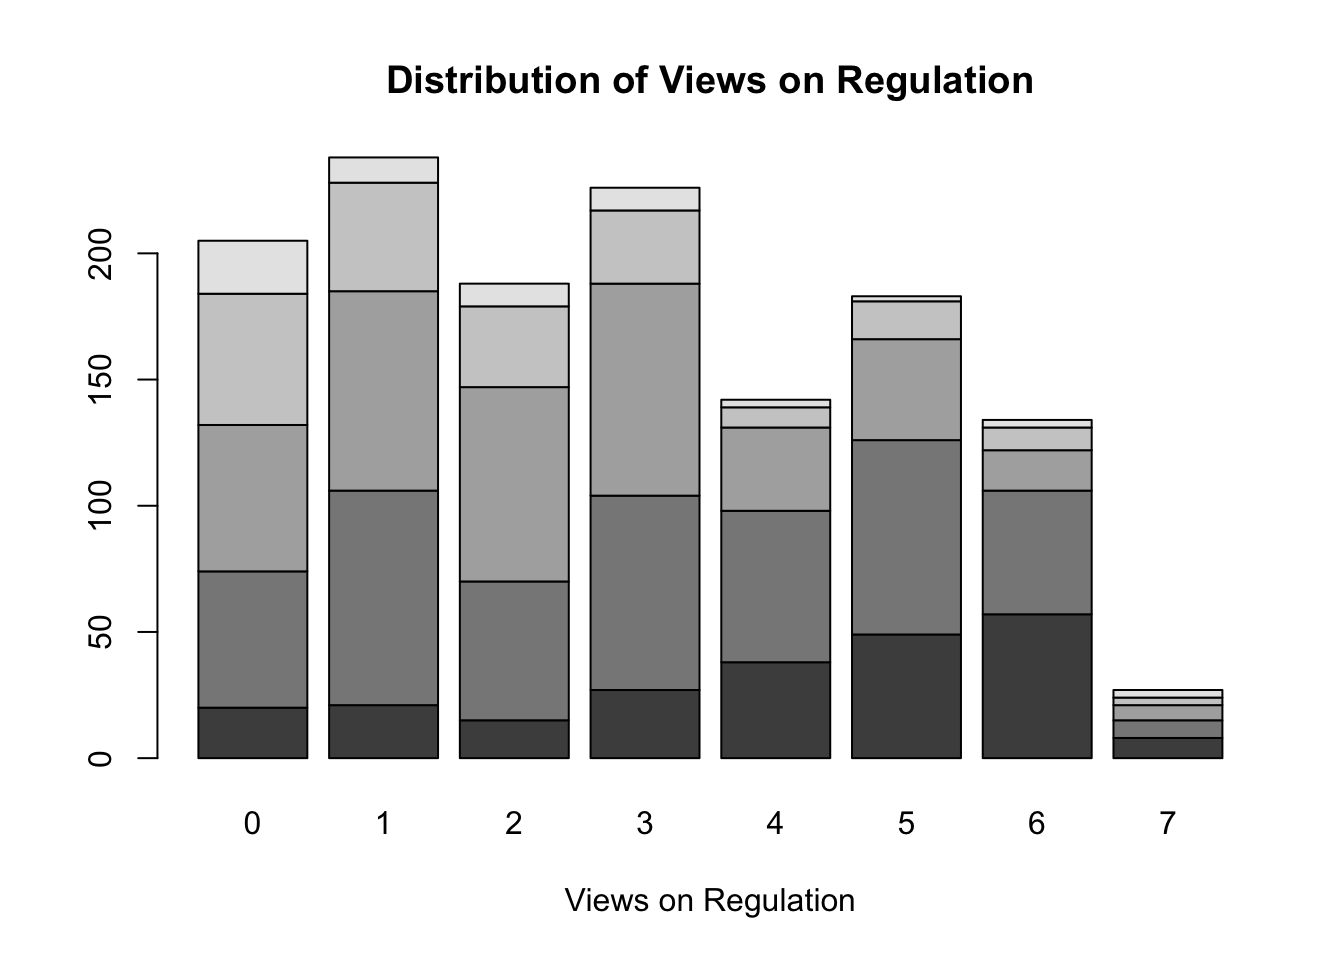
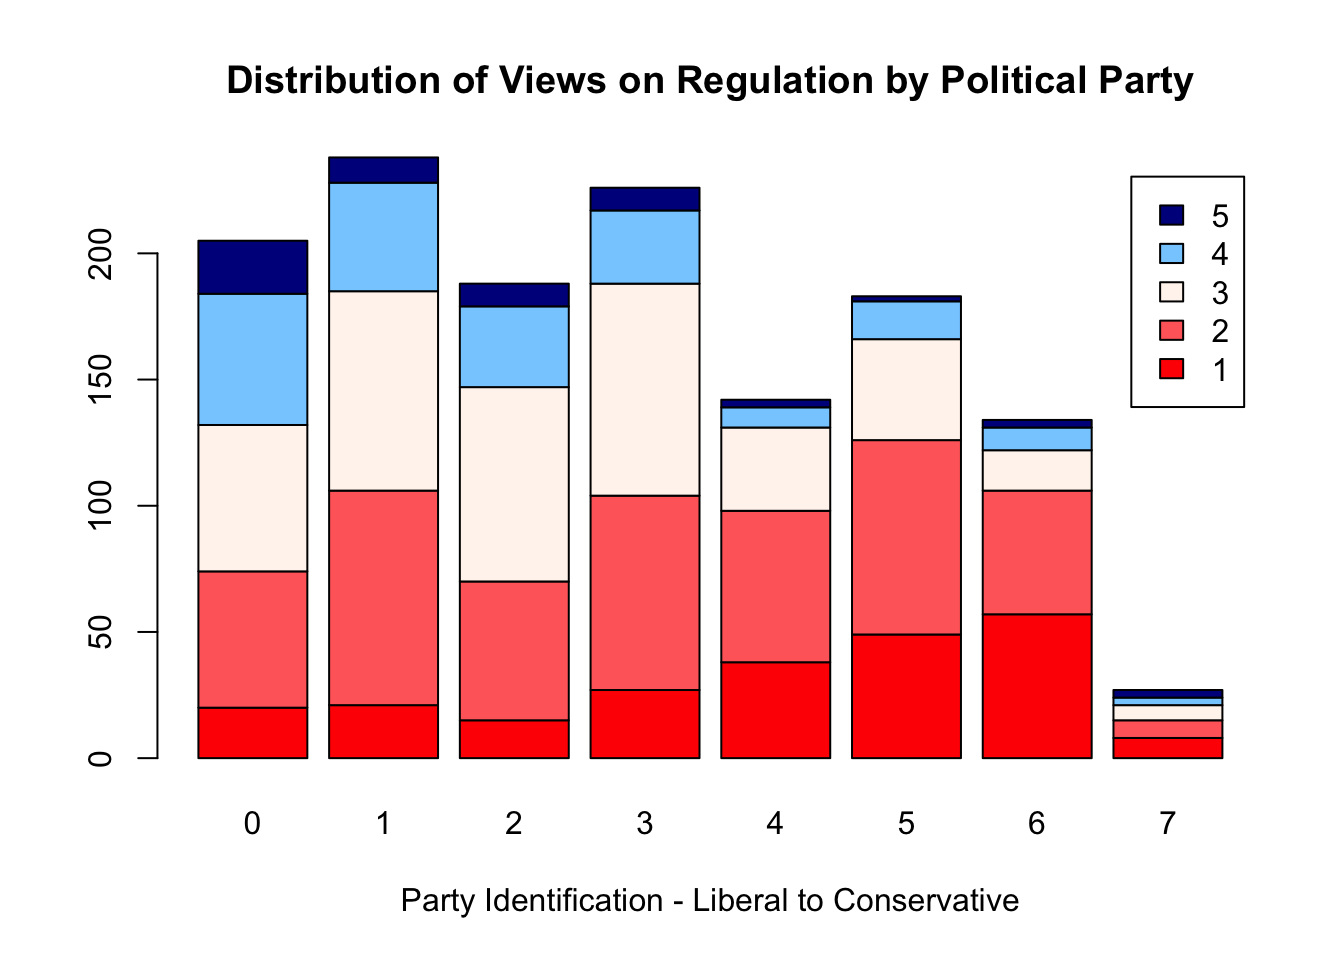
Commit 13

diff --git a/project.html b/project.html
@@ -234,10 +234,10 @@ $(document).ready(function () {
 <h3>Results</h3>
 <p>Here is how the distribution of regulatory views related to Party Indentification and 2016 Income:</p>
 <pre class="r"><code>counts &lt;- table(gss$lessreg, gss$partyid)
-barplot(counts, main=&quot;Distribution of Views on Regulation&quot;, xlab=&quot;Views on Regulation&quot;)</code></pre>
+barplot(counts, main=&quot;Distribution of Views on Regulation by Political Party&quot;, xlab=&quot;Party Identification - Liberal to Conservative&quot;, col=c(&quot;red&quot;, &quot;indianred1&quot;, &quot;seashell&quot;, &quot;skyblue1&quot;, &quot;blue4&quot;), legend = rownames(counts))</code></pre>
 <p><img src="project_files/figure-html/unnamed-chunk-4-1.png" width="672" /></p>
 <pre class="r"><code>counts &lt;- table(gss$lessreg, gss$RINCOM16)
-barplot(counts, main=&quot;Distribution of Views on Regulation&quot;, xlab=&quot;Views on Regulation&quot;)</code></pre>
+barplot(counts, main=&quot;Distribution of Views on Regulation by Income&quot;, xlab=&quot;2016 Income - Low to High&quot;, col=c(&quot;red&quot;, &quot;indianred1&quot;, &quot;seashell&quot;, &quot;skyblue1&quot;, &quot;blue4&quot;), legend = rownames(counts))</code></pre>
 <p><img src="project_files/figure-html/unnamed-chunk-5-1.png" width="672" /></p>
 <pre class="r"><code>chisq.test(table(gss$partyid, gss$lessreg))</code></pre>
 <pre><code>## Warning in chisq.test(table(gss$partyid, gss$lessreg)): Chi-squared
@@ -352,7 +352,8 @@ summary(reg2)</code></pre>
 </div>
 <div id="conclusions" class="section level3">
 <h3>Conclusions</h3>
-<p>There is a significant correlation between Party ID and Views on Regulation, however the relationship between 2016 Income and Views on Regulation is much weaker. From the Chi Square test, we can make the argument that there is a clear correlation showing that Liberals support more regulation and consumer protection, while Conservatives favour a less burdensome set of laws for businesses. This is in line with the conventional idealogies of each of the two parties in the United States, the Democrats and the Republicans.</p>
+<p>There is a significant correlation between Party ID and Views on Regulation, however the relationship between 2016 Income and Views on Regulation is much weaker. Consequently, we can demonstrate that there is a distincy relationship between Political Identification and Views on Regulation, but we cannot prove the hypotethesis that there is a link between Income and Views on Regulation using this data.</p>
+<p>Looking first at Political identifcation, the data fits the proposed hypothesis linking Democrats with more government oversight and consumer protection, and Republicans with support for a free market and limited government. From the Chi Square test, we can make the argument that there is a clear correlation showing that Liberals support more regulation and consumer protection, while Conservatives favour a less burdensome set of laws for businesses. This is in line with the conventional idealogies of each of the two parties in the United States, the Democrats and the Republicans.</p>
 </div>
 
 <p>Copyright &copy; 2017 Malcolm Palley, Inc. All rights reserved.</p>
